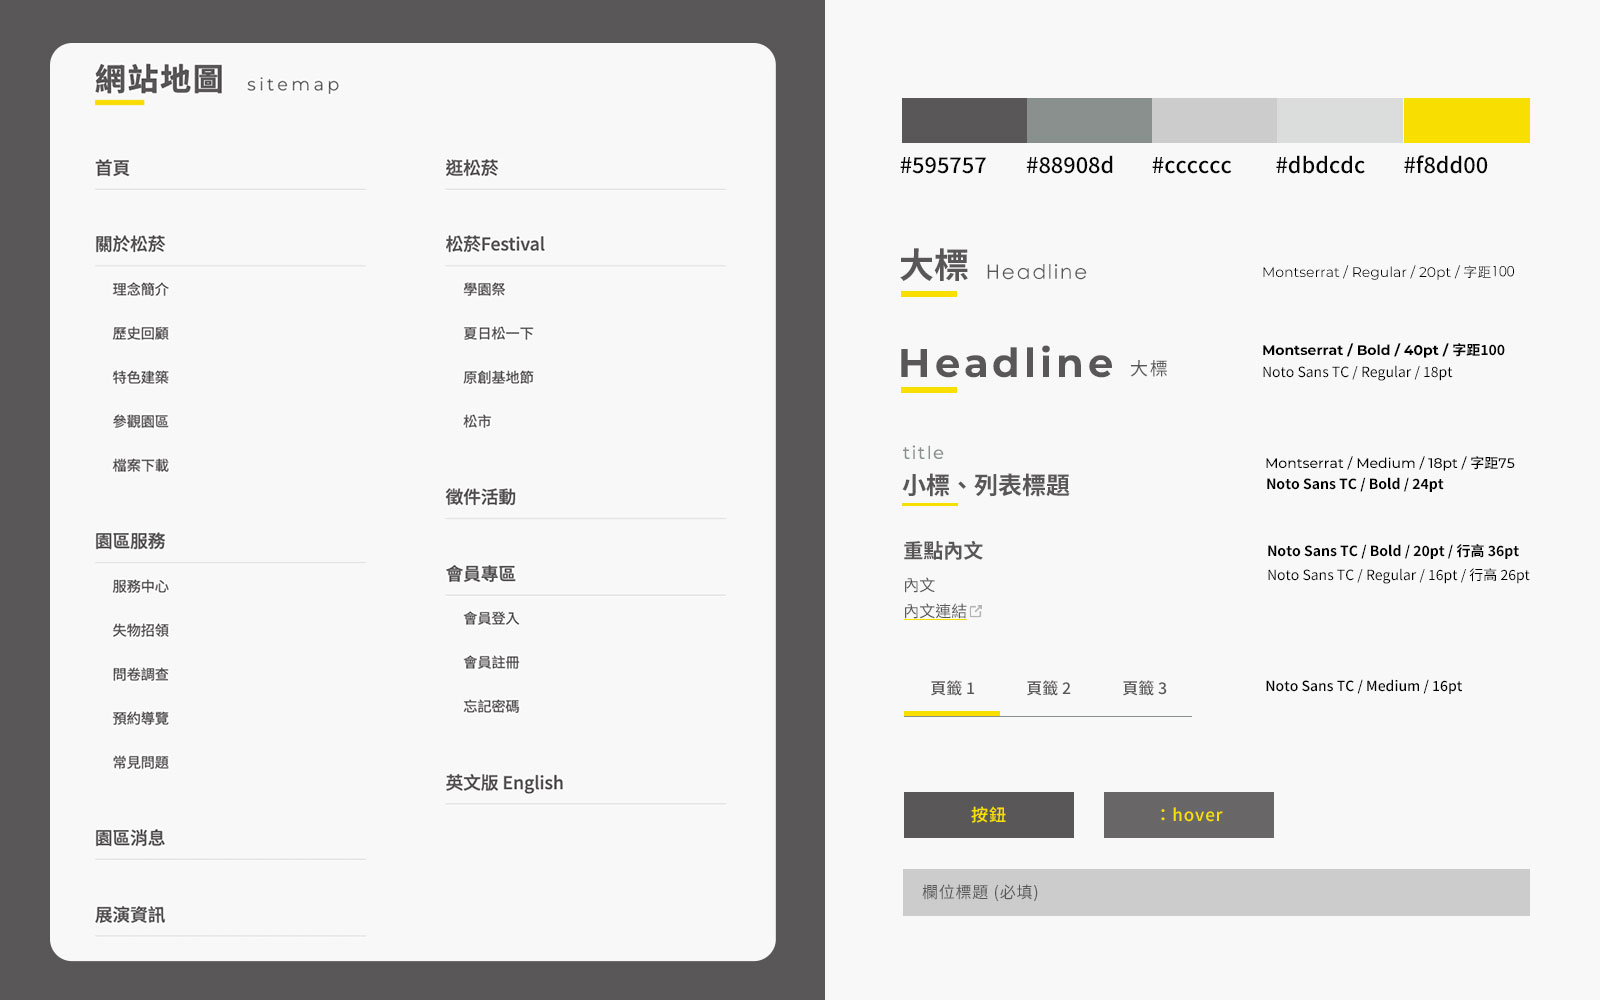
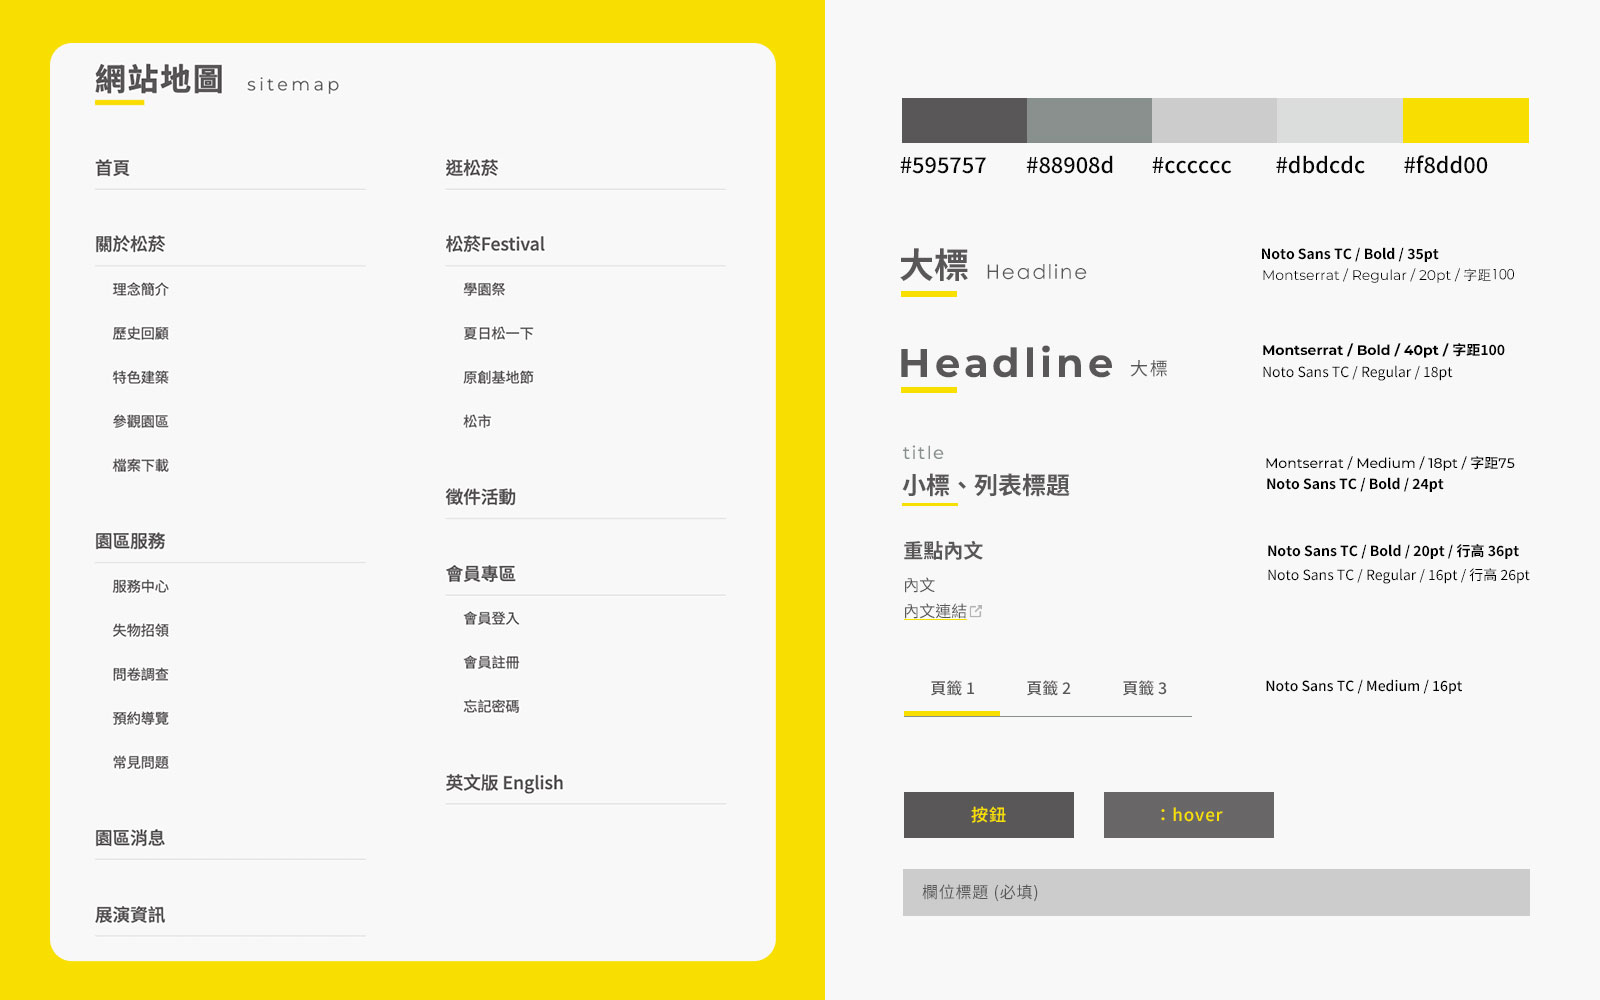
250307

Changed region(s): [[0.0, 0.0, 0.5312, 1.0], [0.7812, 0.248, 0.9375, 0.279]]

diff --git a/w9.html b/w9.html
@@ -92,39 +92,40 @@
 					<div class="project-describe move1">
 						<h3>統一網站UI視覺，重新規劃網站架構</h3>
 						<p>
-							重新規劃網站字級、標題等呈現方式
+							重整松菸網站架構，將原本分散於不同網站的「 原創基地節 」、「 松菸風格店家 」等，整合至官網架構中。<br>
+							重新規劃整體網站視覺風格，使用松菸CIS規範，主色調為灰色，黃色為輔助色，並規範頁面標題、內文等字級大小及間距，使整體風格一致。
 						</p>
 					</div>
 					<img class="move1 border" src="images/work/w9/02.jpg">
 
 					<div class="project-describe move1">
-						<h3>直觀圖示icon設計，提升使用者體驗</h3>
+						<h3>圖示icon設計，提升使用者體驗</h3>
 						<p>
-							首頁以icon設計，清楚呈現幾個重要資訊頁面連結，讓試用者能快速找到所需要的內容，提升使用者體驗。
+							首頁以icon設計，清楚呈現幾個重要資訊頁面連結，幫助使用者能快速找到所需要的內容。
 						</p>
 					</div>
 					<img class="move1 border" src="images/work/w9/03.jpg">
 
 					<div class="project-describe move1">
-						<h3>行事曆設計</h3>
+						<h3>首頁行事曆設計，找展覽更快速</h3>
 						<p>
-							行事曆設計，使用者能快速得知特定日期停工的展覽。
+							在首頁增加行事曆功能，使用者只要選擇日期，便能查詢當日有開放的展覽活動。
 						</p>
 					</div>
 					<img class="move1 border" src="images/work/w9/04.jpg">
 					<div class="project-describe move1">
-						<h3>重新整合「關於松菸」頁面內容</h3>
+						<h3>整合「 關於松菸 」頁面內容</h3>
 						<p>
-							將原本「關於松菸」內的12個子項目統整，重新編排為5個區塊，並以下錨點的方式讓使用者能清楚、快速地瀏覽。
+							將原本「 關於松菸 」內的12個子項目統整，重新編排為5個區塊，並以下錨點的方式讓使用者能清楚、有系統的瀏覽。
 						</p>
 					</div>
 					<video class="move1" src="images/work/w9/05.mov" autoplay loop muted>
 						<source src="images/work/w9/05.mov" type="video/mov">
 					</video>
 					<div class="project-describe move1">
-						<h3>地圖</h3>
+						<h3>簡化地圖說明</h3>
 						<p>
-							描述。
+							將地圖上每個地點加上說明，只要點選右側標示的地點，便會展開詳細說明介紹，還有語音導覽功能。
 						</p>
 					</div>
 					
@@ -132,9 +133,9 @@
 					<img class="move1 border" src="images/work/w9/07.jpg">
 
 					<div class="project-describe move1">
-						<h3>將原本松菸小賣所資訊整合至官網</h3>
+						<h3>整合松菸小賣所資訊至官網</h3>
 						<p>
-							描述。
+							將原本為單獨網站的松菸小賣所整合起來，並可以透過後台更新店家。
 						</p>
 					</div>
 
@@ -142,9 +143,9 @@
 					<img class="move1 border" src="images/work/w9/08.jpg">
 
 					<div class="project-describe move1">
-						<h3>footer結合品牌插畫</h3>
+						<h3>新增會員功能</h3>
 						<p>
-							描述。
+							開發會員專區，讓徵稿活動、預約導覽等部分功能可以更完善管理。
 						</p>
 					</div>
 					<img class="move1 border" src="images/work/w9/09.jpg">

diff --git a/w12.html b/w12.html
@@ -71,14 +71,14 @@
 		
 		<div class="main">
 			<section class="section project">
-				<div class="project-name move1">華航請客 會員享樂 - 華航64週年活動網站</div>
+				<div class="project-name move1">華航請客 會員享樂 - 華航航空64週年活動網站</div>
 				<div class="project-in move1">
 					<div class="project-describe move1">
 						<h3>華航64週年，集氣解鎖64張機票</h3>
 						<p>
 							中華航空結合每月會員日及12/16華航生日慶，盛大舉辦本次64週年活動，透過集氣解鎖更多獎項的方式，提升會員的參與度。<br><br>
 
-							主視覺設計以邀請卡、生日蛋糕來呈現，邀請所有會員一起參與華航一年一度的生日盛會，灑落的機票與氣球設計帶出歡樂慶祝氛圍，也代表越多人一同參與華航就會送出越多獎品，體現「華航請客 會員享樂」的活動主軸。
+							主視覺設計以邀請卡、生日蛋糕來呈現，邀請所有會員一起參與華航一年一度的生日盛會，灑落的機票與氣球設計帶出歡樂慶祝氛圍，也代表越多人一同參與華航就會送出越多獎品，體現「 華航請客 會員享樂 」的活動主軸。
 						</p>
 					</div>
 					<a class="project-link" href="https://www.jk2u.com.tw/chinaairlines/2023_member_event/index.html" target="_blank">
@@ -104,7 +104,7 @@
 					<div class="project-describe move1">
 						<h3>個人任務</h3>
 						<p>
-							完成每日簽到、留言素華航祝福、活動期間購票等個人任務，再加碼抽華航2024獨家無限升等MVP。
+							除了團體集氣之外，只要完成每日簽到、留言送華航祝福、活動期間購票等個人任務，再加碼抽華航2024獨家無限升等MVP。
 						</p>
 					</div>
 					<img class="move1" src="images/work/w12/04.jpg">
@@ -121,7 +121,7 @@
 					<div class="project-describe move1">
 						<h3>晶鑽會員生日賀卡設計</h3>
 						<p>
-							在賀卡上加入轉盤設計，能呈現多國語言的生日賀卡
+							在年度晶鑽會員生日賀卡上融入64週年主視覺，並巧妙的加入轉盤設計，讓賀卡上的生日祝福能呈現多國語言！
 						</p>
 					</div>
 					<img class="move1" src="images/work/w12/07.jpg">

diff --git a/work.html b/work.html
@@ -110,19 +110,6 @@
 					 		<div class="work-discribe move3">改善松山文創園區官網介面設計及流程，優化整體UI/UX，提升品牌視覺美感，並確保使用者能輕鬆獲取完整園區活動資訊。</div>
 					 	</div>
 					</a></div>
-					<div class="work-box"><a href="w11.html">
-					 	<div class="work-pic move2">
-					 		<img class="pmove" src="images/work/w11.jpg">
-					 	</div>
-					 	<div class="work-case">
-					 		<div class="work-button move3">
-					 			<div class="work-type">#活動網站</div>
-					 			<div class="work-link"><img src="images/index/link.png"></div>
-					 		</div>
-					 		<div class="work-name"><span class="move4">旭福 — 益起健康點</span></div>
-					 		<div class="work-discribe move3">益起健康點 — 活動網站</div>
-					 	</div>
-					</a></div>
 					<div class="work-box"><a href="w10.html">
 					 	<div class="work-pic move2">
 					 		<img class="pmove" src="images/work/w10.jpg">
@@ -134,6 +121,19 @@
 					 		</div>
 					 		<div class="work-name"><span class="move4">韋恩 — 逃離睏境 解開夢幻之謎</span></div>
 					 		<div class="work-discribe move3">本次活動以「強力脫睏」為主軸，打造沈浸式解謎遊戲與消費者互動，藉由韋恩咖啡逃出睡意，強化產品「提神」特性。</div>
+					 	</div>
+					</a></div>
+					<div class="work-box"><a href="w11.html">
+					 	<div class="work-pic move2">
+					 		<img class="pmove" src="images/work/w11.jpg">
+					 	</div>
+					 	<div class="work-case">
+					 		<div class="work-button move3">
+					 			<div class="work-type">#活動網站</div>
+					 			<div class="work-link"><img src="images/index/link.png"></div>
+					 		</div>
+					 		<div class="work-name"><span class="move4">旭福 — 益起健康點</span></div>
+					 		<div class="work-discribe move3">益起健康點 — 活動網站</div>
 					 	</div>
 					</a></div>
 

diff --git a/graphic.html b/graphic.html
@@ -108,7 +108,7 @@
 					 			<div class="work-link"><img src="images/index/link.png"></div>
 					 		</div>
 					 		<div class="work-name"><span class="move4">華航會員日</span></div>
-					 		<div class="work-discribe move3">中華航空於每月推出會員日優惠，本次以「西雅圖」為主要航點推廣，使用向量繪製，創造柔和漸層視覺，營造美好渡假氛圍。</div>
+					 		<div class="work-discribe move3">中華航空每月推出會員日優惠，本次以「西雅圖」為主要航點推廣，使用向量繪製，創造柔和漸層視覺，營造美好渡假氛圍。</div>
 					 	</div>
 					</a></div>
 					<div class="work-box"><a href="g4.html">
@@ -135,7 +135,7 @@
 					 			<div class="work-link"><img src="images/index/link.png"></div>
 					 		</div>
 					 		<div class="work-name"><span class="move4">JK2U — 聖誕邀請卡</span></div>
-					 		<div class="work-discribe move3">JK2U — 聖誕邀請卡</div>
+					 		<div class="work-discribe move3">運用聖誕節代表元素，仿製印章效果製作成有趣的拼貼視覺，在聖誕節這天，讓我們一起 Make a wish! 許個願吧！</div>
 					 	</div>
 					</a></div>
 					<div class="work-box"><a href="g10.html">
@@ -187,8 +187,8 @@
 					 			<div class="work-type">#平面設計</div>
 					 			<div class="work-link"><img src="images/index/link.png"></div>
 					 		</div>
-						 	<div class="work-name"><span class="move4">簡報排版</span></div>
-						 	<div class="work-discribe move3">室內設計相關空間介紹排版</div>
+						 	<div class="work-name"><span class="move4">室內空間簡介</span></div>
+						 	<div class="work-discribe move3">室內設計空間介紹排版</div>
 					 	</div>
 					</a></div>
 

diff --git a/w10.html b/w10.html
@@ -74,9 +74,9 @@
 				<div class="project-name move1">逃離睏境 解開夢幻之謎 - 韋恩咖啡活動網站</div>
 				<div class="project-in move1">
 					<div class="project-describe move1">
-						<h3>打造第一人稱視角，沈浸體驗解謎互動</h3>
+						<h3>打造第一人稱視角，沈浸式體驗解謎互動</h3>
 						<p>
-							韋恩咖啡本次活動以「強力脫睏」為主軸，打造沈浸式解謎遊戲與消費者互動，畫面從第一人稱視角出發，讓消費者在遊戲半夢半醒的神秘劇情中，藉由韋恩咖啡逃出睡意，強化產品「提神」特性。
+							韋恩咖啡本次活動以「 強力脫睏 」為主軸，打造沈浸式解謎遊戲與消費者互動，畫面從第一人稱視角出發，隨著劇情的推演，讓消費者在遊戲中體驗藉由韋恩咖啡逃出睡意，強化產品「提神」特性。
 						</p>
 					</div>
 					<a class="project-link" href="https://www.jk2u.com.tw/events/202203_wincafe" target="_blank">
@@ -93,7 +93,7 @@
 						<h3>四個推理關卡設計</h3>
 						<p>
 							成功解開四個關卡，就能逃出夢境。<br>
-							第一關：文字解謎、第二關：拼圖連線、第三關：逃離迷途，每個關卡都與韋恩咖啡有神秘的關聯，最後到達第四關：捕捉黑影，關鍵點出要逃離『睏』境，就需要韋恩咖啡來提神！
+							第一關：文字解謎、第二關：拼圖連線、第三關：逃離迷途，每個關卡都與韋恩咖啡有神秘的關聯，最後到達第四關：來到超商，捕捉黑影，關鍵點出要逃離『睏』境，就需要韋恩咖啡來提神！
 						</p>
 					</div>
 					<img class="move1" src="images/work/w10/02.jpg">

diff --git a/w14.html b/w14.html
@@ -76,8 +76,8 @@
 					<div class="project-describe move1">
 						<h3>用色彩改造旅宿，刷出旅行的美好</h3>
 						<p>
-							號招旅宿業者使用得利塗料重新粉刷，進行翻新改造，藉以宣傳得利塗料，並開發淺在市場。
-							主視覺以得利塗料不同色系的產品顏色做搭配，在首圖輪播，來凸顯不同色系塗料打造出來的空間
+							號召旅宿業者使用得利塗料重新粉刷，進行翻新改造，藉以宣傳得利塗料，開發潛在市場。
+							主視覺以得利塗料不同色系的產品顏色搭配在首圖輪播，來凸顯不同色系塗料打造出來的空間美學。
 						</p>
 					</div>
 					<!--<a class="project-link" href="#" target="_blank">
@@ -92,7 +92,7 @@
 					<div class="project-describe move1">
 						<h3>圖示說明產品使用時機</h3>
 						<p>
-							繪製空間圖片一一標示出不同塗料的特色與使用時機，讓產品介紹更簡單明瞭。
+							繪製空間圖片來標示出不同塗料的特色與使用時機，讓產品介紹更簡單明瞭。
 						</p>
 					</div>
 					<img class="move1 border" src="images/work/w14/02.jpg">

diff --git a/g8.html b/g8.html
@@ -74,8 +74,9 @@
 				<div class="project-name move1">JK2U — 聖誕邀請卡</div>
 				<div class="project-in move1">
 					<div class="project-describe move1">
-						<h3>標題</h3>
-						<p>描述</p>
+						<h3>聖誕快樂 Make a wish!</h3>
+						<p>與客戶們一起度過溫馨有趣的聖誕節，設計了聖誕活動主視覺，運用聖誕襪、聖誕樹、禮物等聖誕節代表元素，仿製印章效果製作成有趣的拼貼視覺，在聖誕節這天，讓我們一起 Make a wish! 許個願吧！Merry christmas!
+						</p>
 					</div>
 					<!--<a class="project-link" href="#" target="_blank">
 						<div>View Website</div>

diff --git a/w13.html b/w13.html
@@ -76,7 +76,7 @@
 					<div class="project-describe move1">
 						<h3>打造旅宿專屬的票選活動</h3>
 						<p>
-							本次活動接續上一波「改造旅宿」活動宣傳，將參加的旅宿集合做票選活動，讓更多消費者藉由旅宿的改造接觸到得利塗料，擴大知名度。
+							本次活動接續上一波「改造旅宿」活動宣傳，將參加的旅宿集合做線上票選活動，讓更多消費者藉由旅宿的改造接觸到得利塗料，擴大知名度。
 						</p>
 					</div>
 					<!--<a class="project-link" href="#" target="_blank">

diff --git a/css/style.css b/css/style.css
@@ -865,7 +865,7 @@ nav ul li {
   transition-delay: 1s;
 }
 
-@media screen and (max-width: 1400px) {
+@media screen and (max-width: 1450px) {
   .title {
     font-size: 40px;
   }

diff --git a/css/index.css b/css/index.css
@@ -709,7 +709,7 @@
 }
 
 
-@media screen and (max-width: 1400px) {
+@media screen and (max-width: 1450px) {
   .about{
     font-size: 16px;
     top: 10px;
